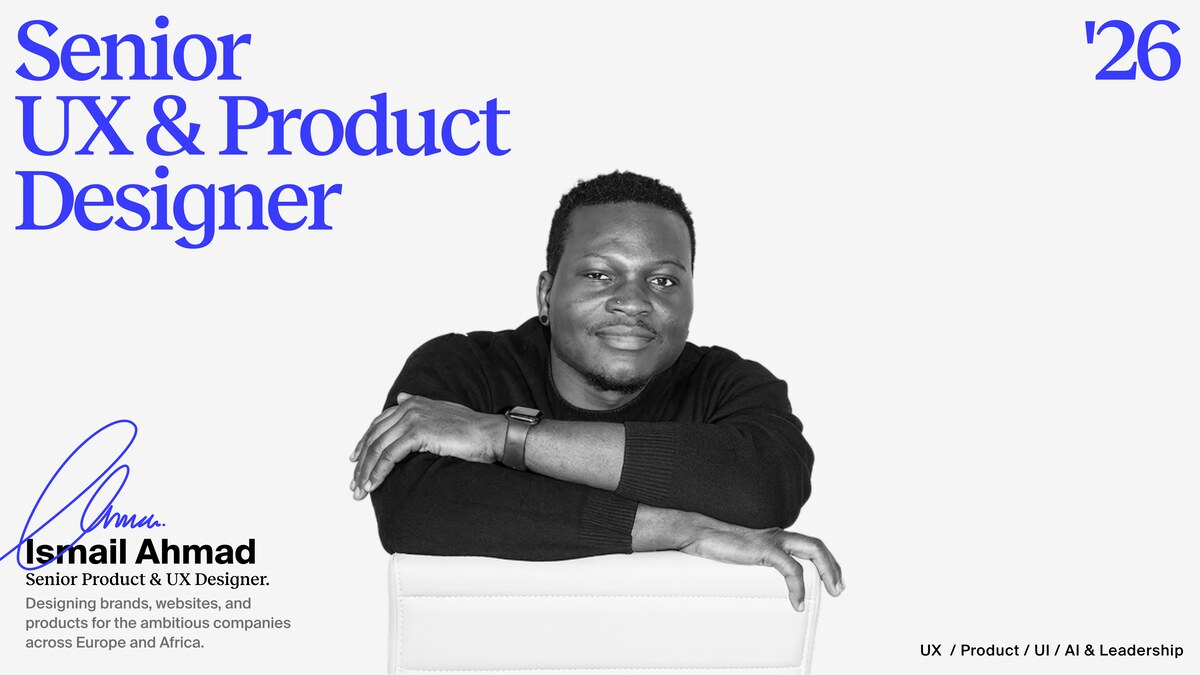
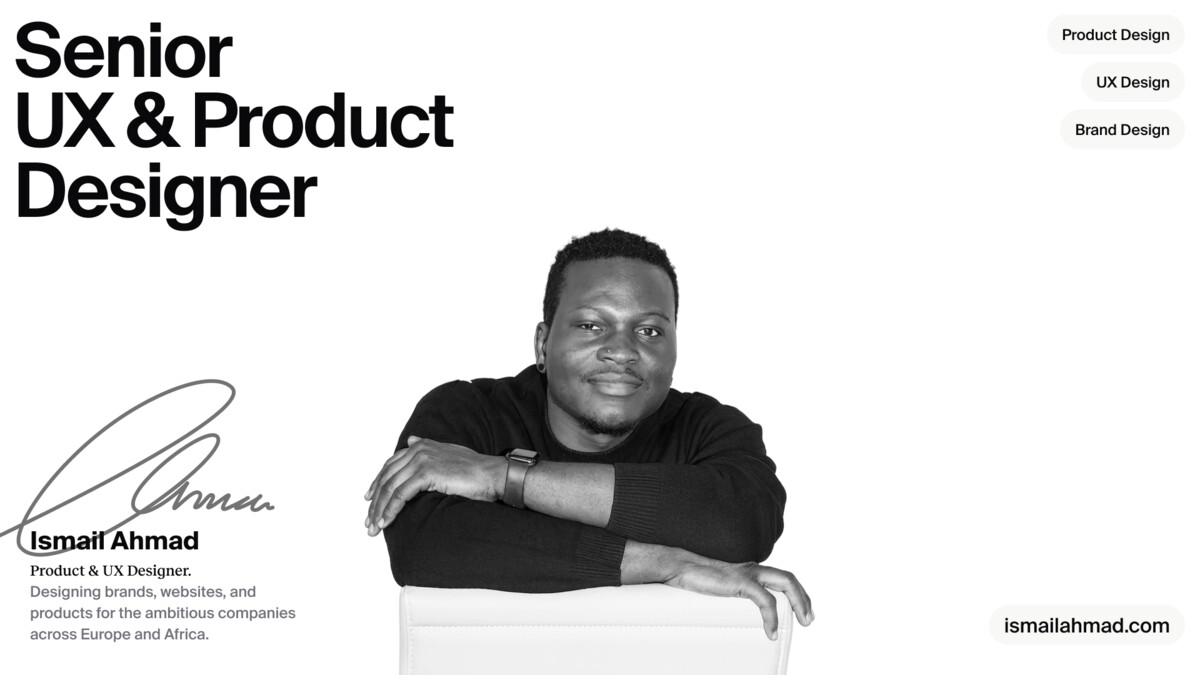
Carry the new share card across the site
Replaces the blue '26 card with the black-and-white one: the same
portrait, the discipline pills, and the domain in the corner.

The 1200x675 file every page points at is rebuilt from the new
artwork, and the two unreferenced masters beside it are refreshed so
nothing in assets/ still holds the old design.

The home and about cards named the image by a relative path, which the
Open Graph spec does not allow and scrapers resolve inconsistently.
They now give the absolute URL that feeds.html already used, so the
card they advertise is the one that gets fetched.

diff --git a/about.html b/about.html
@@ -15,7 +15,7 @@
     <meta property="og:type" content="website" />
     <meta property="og:title" content="Ismail Ahmad — Product &amp; UX Designer" />
     <meta property="og:description" content="Designing financial products people understand and trust." />
-    <meta property="og:image" content="/assets/og-1200.jpg" />
+    <meta property="og:image" content="https://www.ismailahmad.com/assets/og-1200.jpg" />
     <meta name="twitter:card" content="summary_large_image" />
 
     <!-- Theme is resolved before first paint so dark mode never flashes white -->

diff --git a/index.html b/index.html
@@ -15,7 +15,7 @@
     <meta property="og:type" content="website" />
     <meta property="og:title" content="Ismail Ahmad — Product &amp; UX Designer" />
     <meta property="og:description" content="Designing financial products people understand and trust." />
-    <meta property="og:image" content="assets/og-1200.jpg" />
+    <meta property="og:image" content="https://www.ismailahmad.com/assets/og-1200.jpg" />
     <meta name="twitter:card" content="summary_large_image" />
 
     <!-- Theme is resolved before first paint so dark mode never flashes white -->
